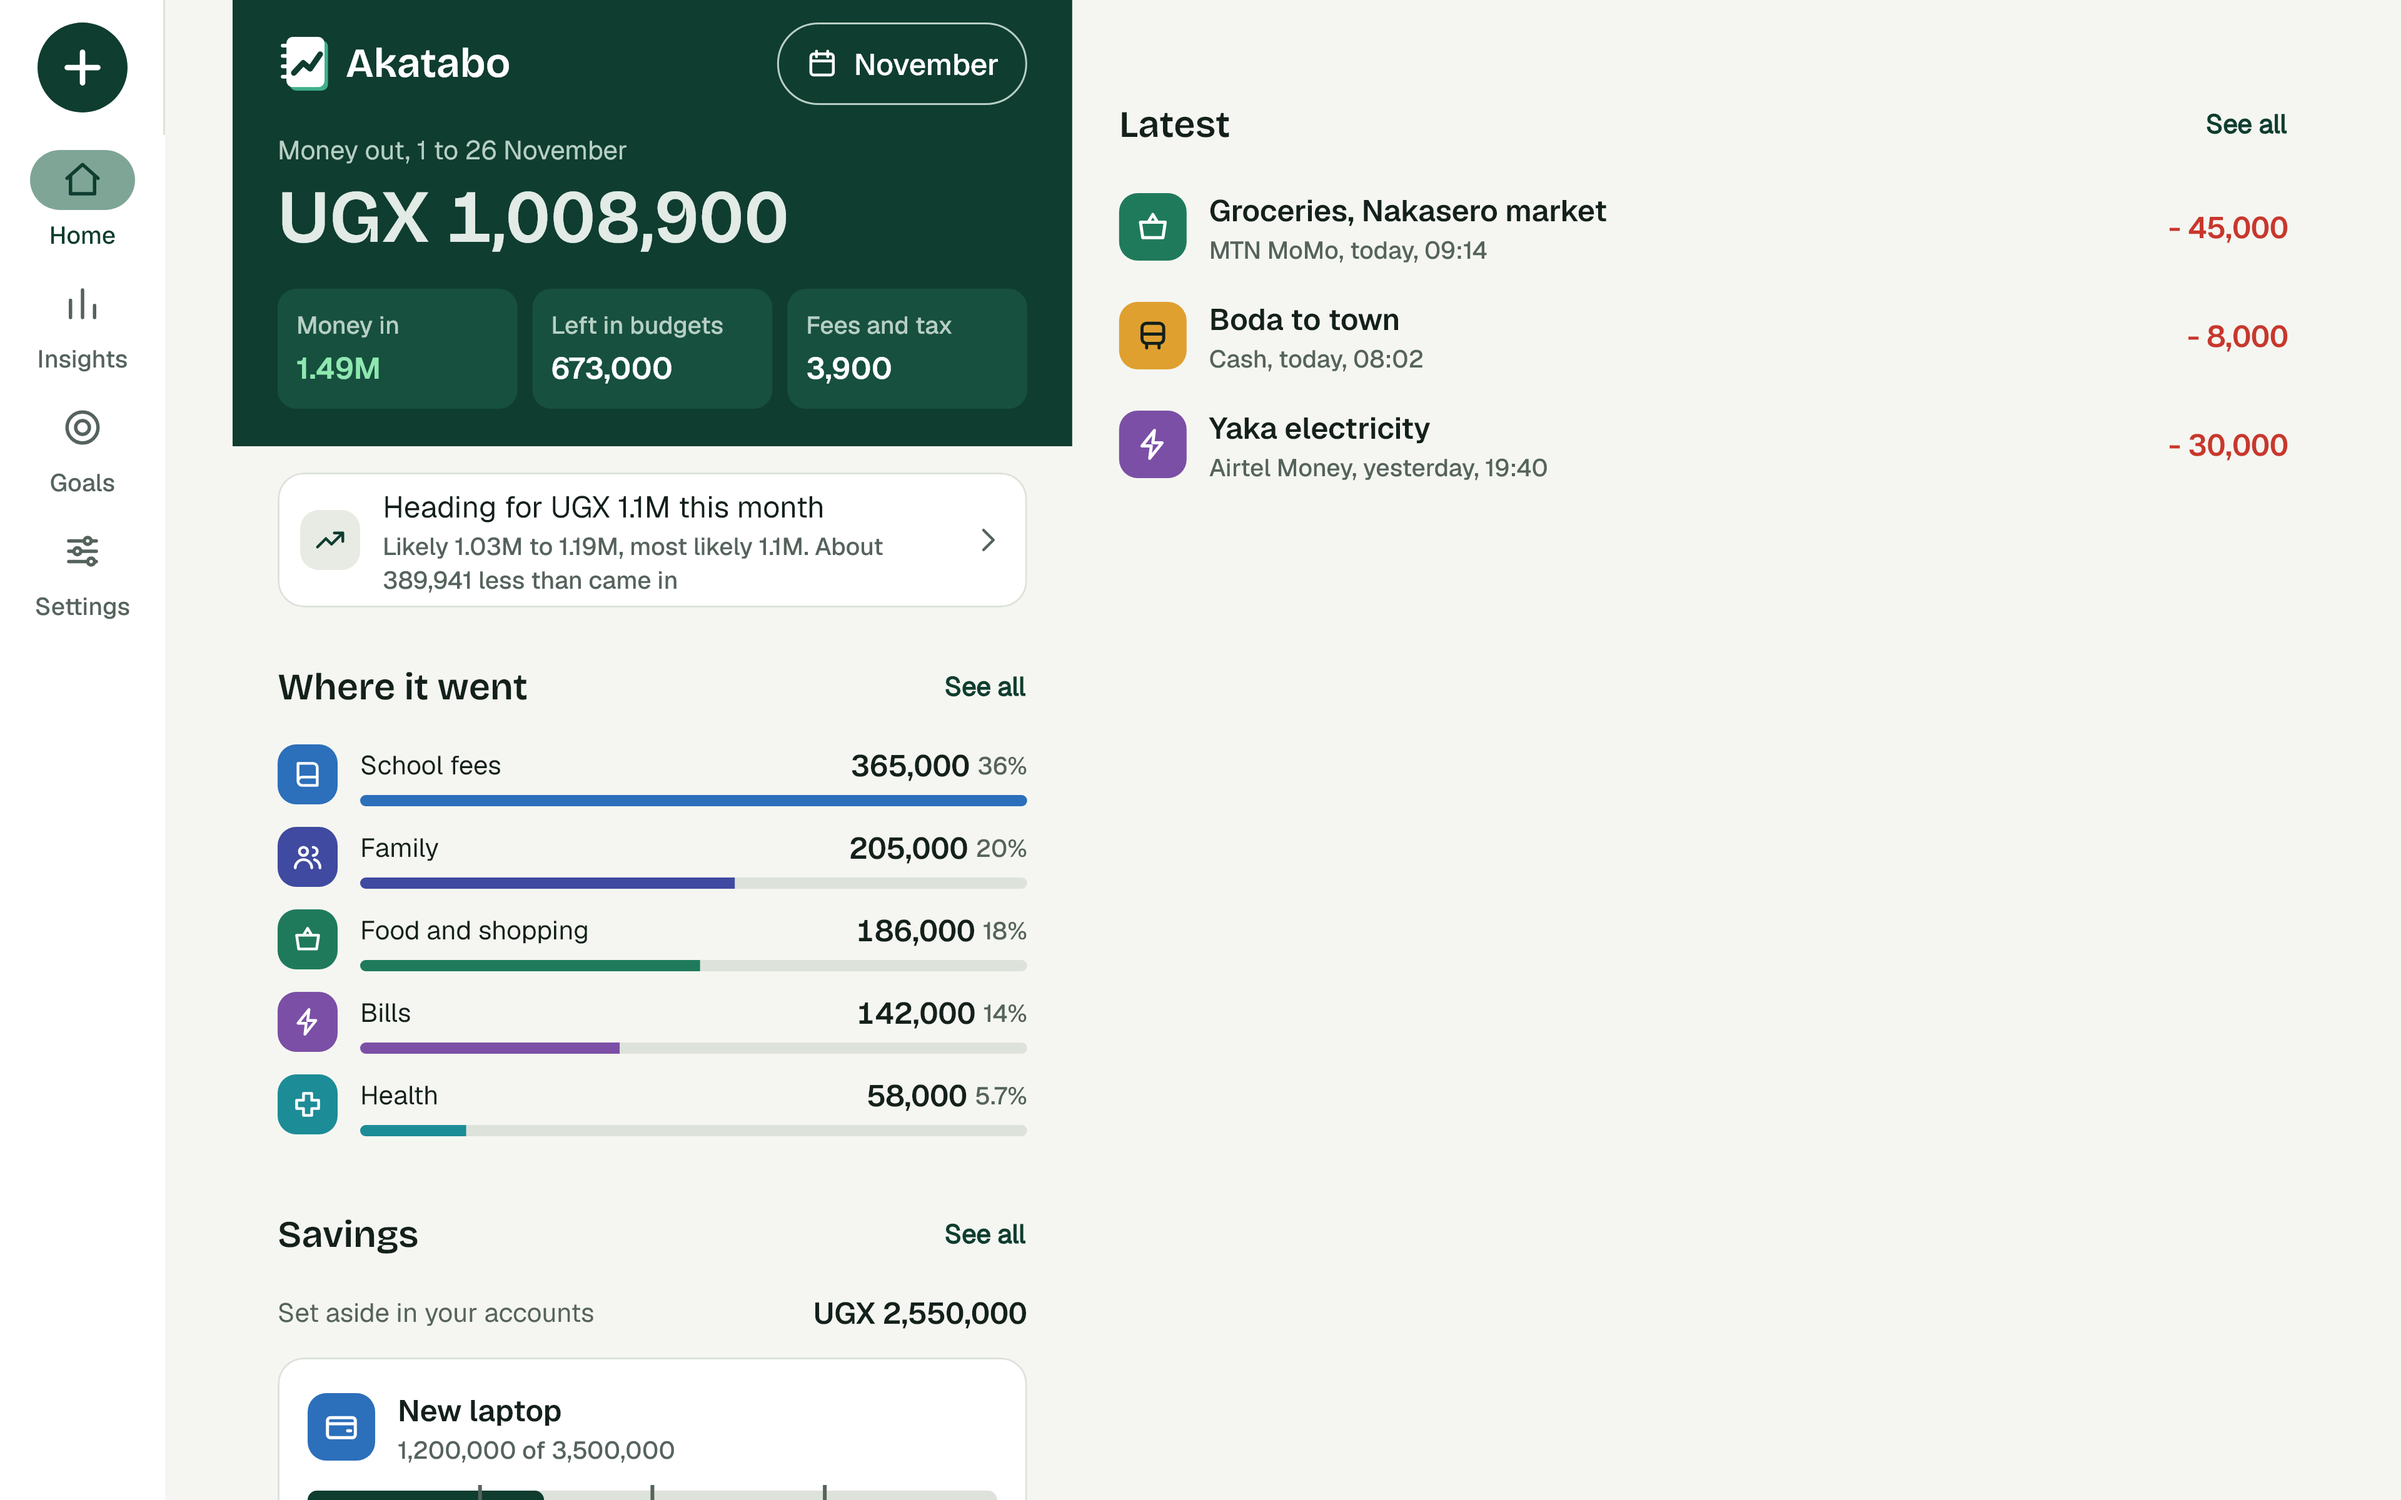
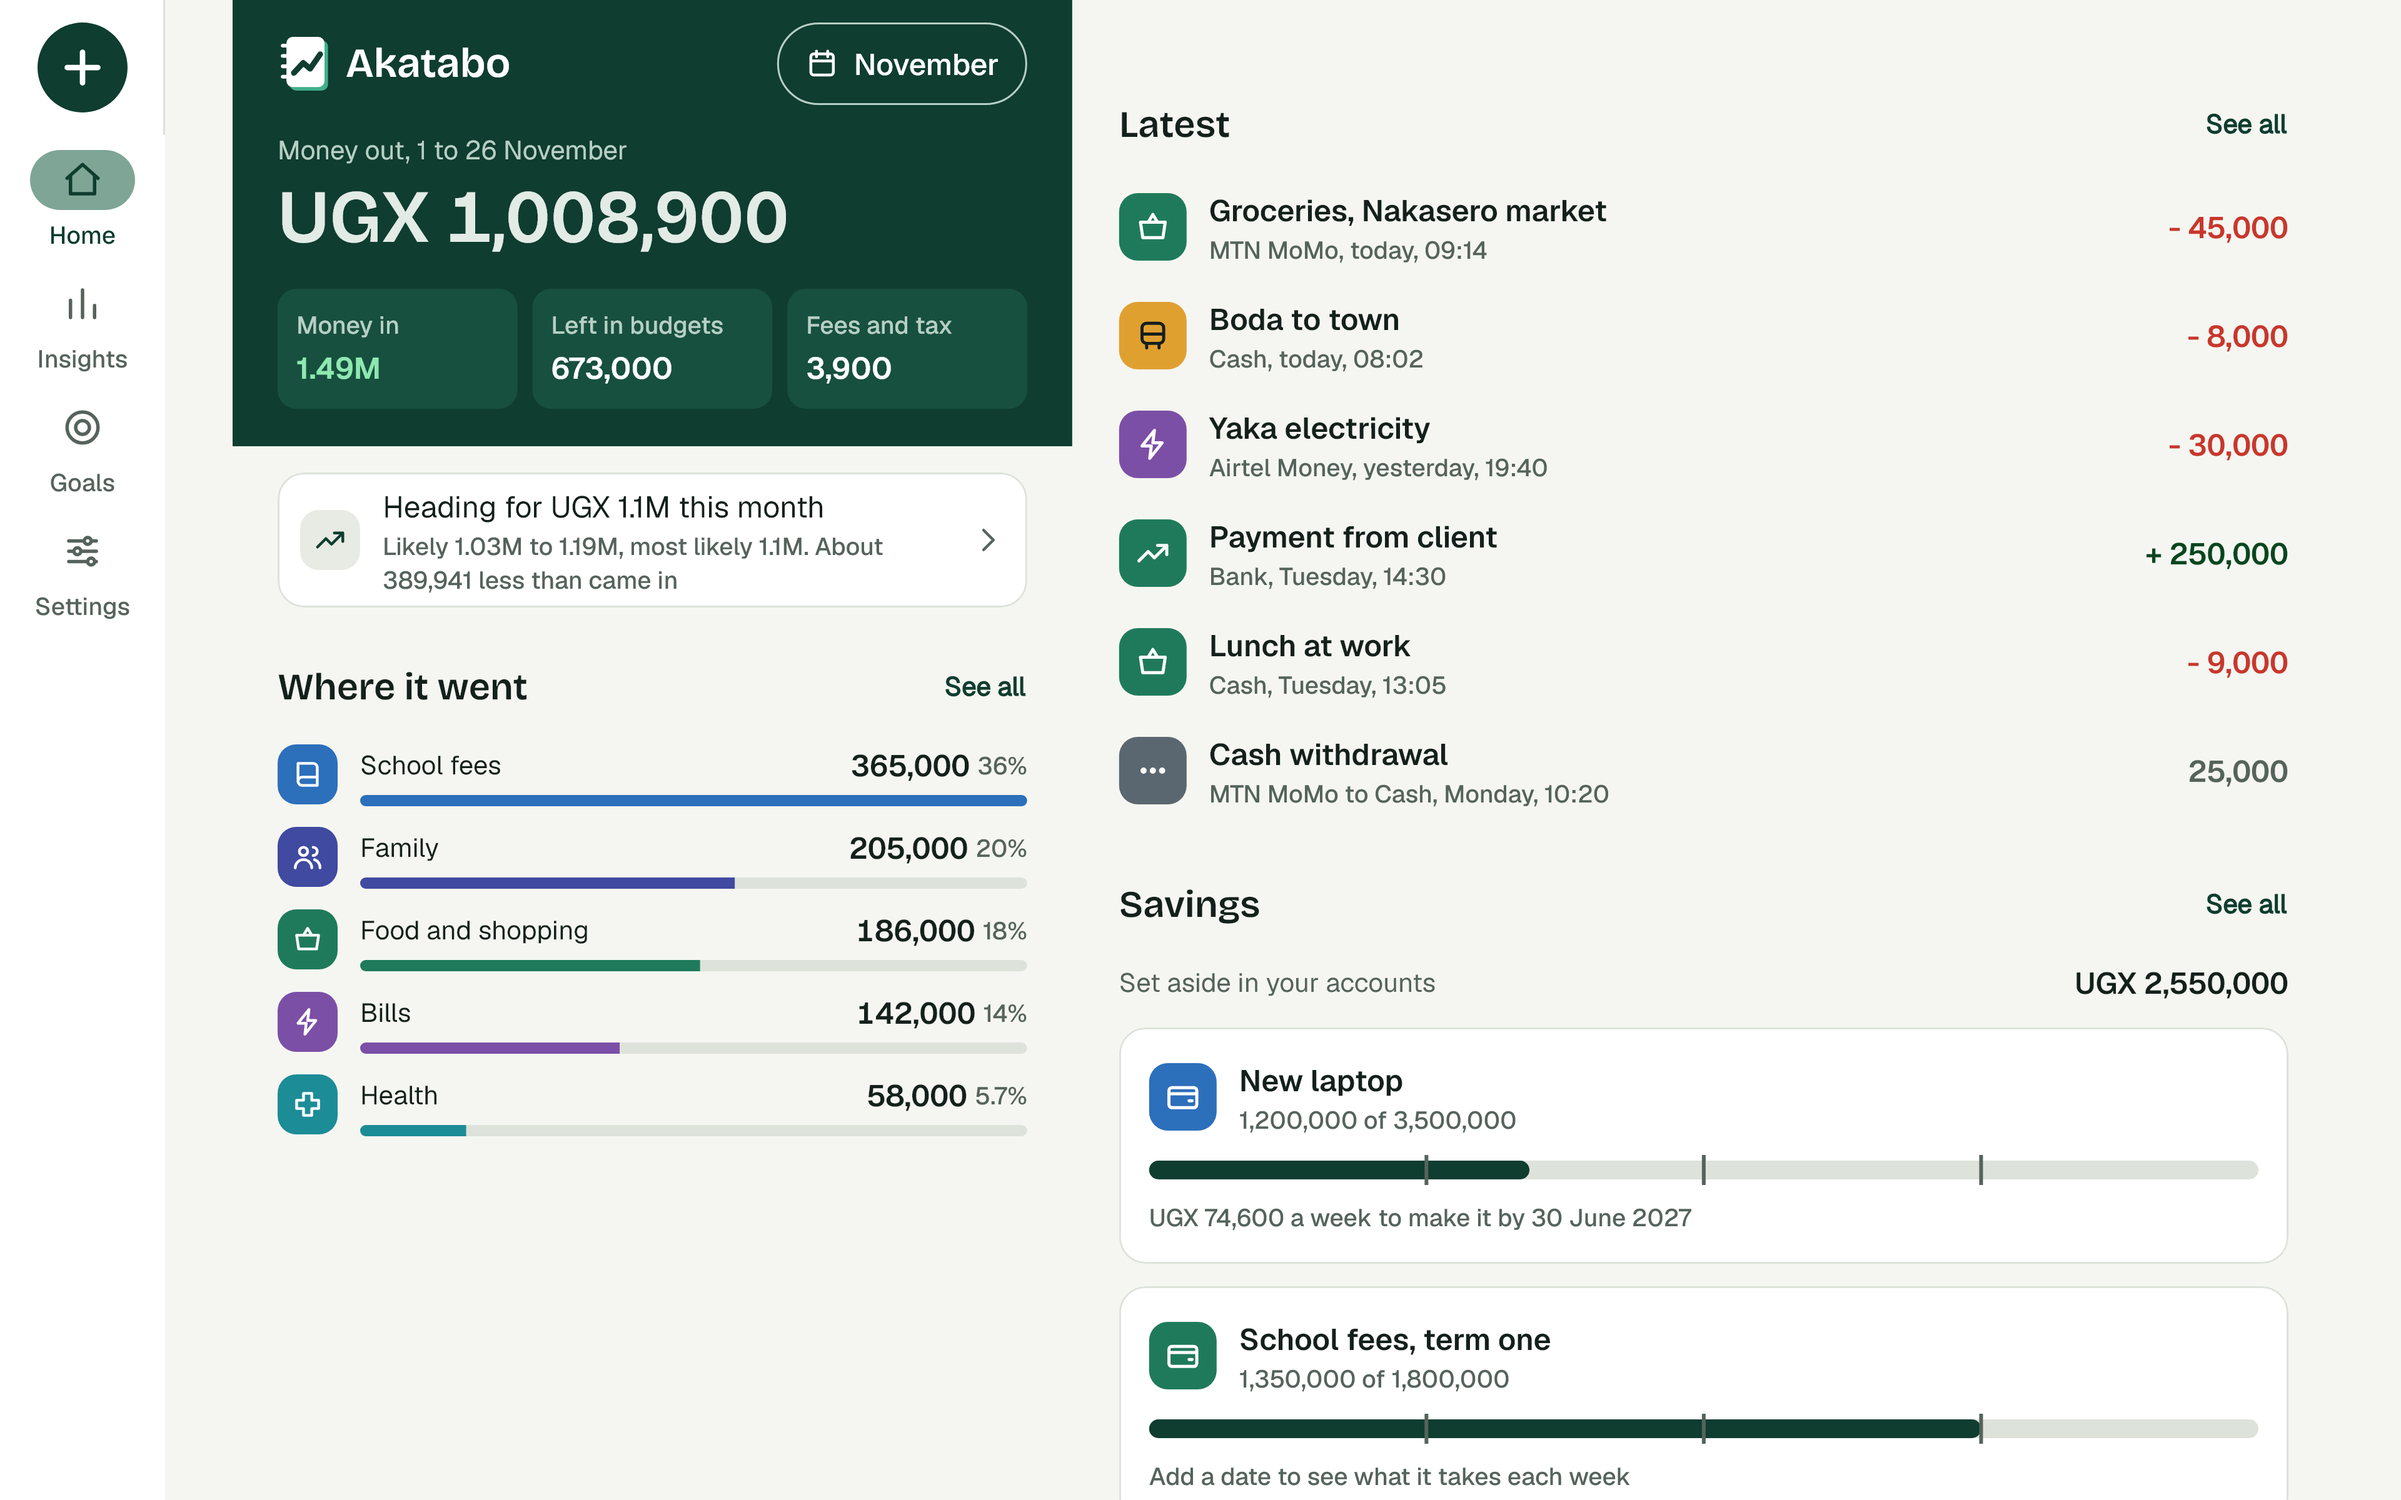
Tablet Home: Latest fills the right pane, and Savings sits under it
On a window of 840dp or wider, Latest shows six entries from a new
provider (the phone still reads three), and Savings moves from the left
pane to the right, under Latest. The left pane keeps the summary,
forecast, where it went and budgets. Phones keep their order: summary,
savings, latest, budgets.

Test: "a tablet fills the Latest pane and moves Savings beside it". It
fails when the wide pane shows the phone's rows, and when Savings stays
in the left pane. Tablet screenshot and docs redrawn; phone shots are
unchanged. Filed: a three-then-six row flash after a window goes wide.

diff --git a/app/test/features/home/home_screen_test.dart b/app/test/features/home/home_screen_test.dart
@@ -62,7 +62,12 @@ Future<void> _pumpHome(
         appNowProvider.overrideWithValue(_now),
         // The default calculator: "Month starts on" the 1st, weeks start on Sunday.
         periodCalculatorProvider.overrideWithValue(const PeriodCalculator()),
-        latestRowsProvider.overrideWith((ref) => Stream.value(latest)),
+        // The same limits the real providers put on the query: three for a phone, more for
+        // the wide window's Latest pane.
+        latestRowsProvider.overrideWith((ref) => Stream.value(latest.take(3).toList())),
+        latestWideRowsProvider.overrideWith(
+          (ref) => Stream.value(latest.take(wideLatestCount).toList()),
+        ),
         monthRowsProvider.overrideWith((ref) => Stream.value(month)),
         previousSameDaysRowsProvider.overrideWith((ref) => Stream.value(previous)),
         allCategoriesProvider.overrideWith((ref) => Stream.value(categories ?? _categories)),
@@ -227,6 +232,49 @@ void main() {
     // Stacked: the Latest title sits below the summary, in the same column.
     expect(latestPhone.dx, closeTo(wherePhone.dx, 1));
     expect(latestPhone.dy, greaterThan(wherePhone.dy));
+  });
+
+  testWidgets('a tablet fills the Latest pane and moves Savings beside it', (tester) async {
+    final rows = [
+      for (var i = 0; i < 10; i++)
+        txRow(
+          id: 'r$i',
+          amount: 1000 + i,
+          day: 20261119,
+          at: _now.subtract(Duration(minutes: i)),
+        ),
+    ];
+    final goal = Goal(
+      id: 'g1',
+      createdAt: _now,
+      updatedAt: _now,
+      name: 'School fees term 1',
+      iconKey: 'book',
+      colourToken: 'cat-teal',
+      target: 500000,
+      remindEvery: GoalRemind.off,
+      sortOrder: 0,
+    );
+    await _pumpHome(tester, latest: rows, month: rows, goals: [goal], size: const Size(1280, 800));
+    expect(tester.takeException(), isNull);
+    // The pane shows the wide count, not a phone's three and not every entry.
+    expect(find.byType(TransactionRow), findsNWidgets(wideLatestCount));
+    final latest = tester.getTopLeft(find.text('Latest'));
+    final where = tester.getTopLeft(find.text('Where it went'));
+    final savings = tester.getTopLeft(find.text('Savings'));
+    // Savings is in the right pane, under Latest, not in the summary's pane.
+    expect(savings.dx, closeTo(latest.dx, 1));
+    expect(savings.dx, greaterThan(where.dx));
+    expect(savings.dy, greaterThan(latest.dy));
+
+    // A phone still shows three rows and keeps Savings in its old place, above Latest.
+    await tester.pumpWidget(const SizedBox());
+    await _pumpHome(tester, latest: rows, month: rows, goals: [goal]);
+    expect(find.byType(TransactionRow), findsNWidgets(3));
+    expect(
+      tester.getTopLeft(find.text('Savings')).dy,
+      lessThan(tester.getTopLeft(find.text('Latest')).dy),
+    );
   });
 
   testWidgets('on a wide window the last Latest row clears the system bar', (tester) async {

diff --git a/app/lib/features/home/home_screen.dart b/app/lib/features/home/home_screen.dart
@@ -136,6 +136,8 @@ class HomeScreen extends ConsumerWidget {
           child: _WhereItWent(parts: parts, categories: categories, total: totals.moneyOut),
         ),
       ],
+    ];
+    final savingsBlock = <Widget>[
       if (savingGoal) ...[
         const SizedBox(height: AkSpace.s5),
         const Padding(
@@ -144,6 +146,9 @@ class HomeScreen extends ConsumerWidget {
         ),
       ],
     ];
+    // A wide window gives Latest a pane of its own, so it can show more than a phone's three.
+    final wide = isWide(context) && layout.latest;
+    final latestShown = wide ? (ref.watch(latestWideRowsProvider).value ?? latest) : latest;
     final latestBlock = <Widget>[
       if (layout.latest) ...[
         const SizedBox(height: AkSpace.s5),
@@ -156,7 +161,7 @@ class HomeScreen extends ConsumerWidget {
           ),
         ),
         const SizedBox(height: AkSpace.s1),
-        for (final tx in latest)
+        for (final tx in latestShown)
           Padding(
             padding: const EdgeInsets.symmetric(horizontal: AkSpace.s6),
             child: TransactionRow(
@@ -184,9 +189,10 @@ class HomeScreen extends ConsumerWidget {
     // also clear the 3-button bar or a taskbar. On a phone this inset is already 0.
     final bottomGap = SizedBox(height: AkSpace.s6 + MediaQuery.paddingOf(context).bottom);
 
-    // A wide window shows the summary and the Latest list side by side; a phone keeps one
-    // column, in the same order as before.
-    if (isWide(context) && layout.latest) {
+    // A wide window puts the summary, forecast and budgets on the left and what happened on the
+    // right: Latest, then what is set aside. A phone keeps one column, in the same order as
+    // before.
+    if (wide) {
       return Scaffold(
         backgroundColor: context.colors.ground,
         body: WidePanes(
@@ -199,6 +205,7 @@ class HomeScreen extends ConsumerWidget {
             children: [
               const SizedBox(height: AkSpace.s6),
               ...latestBlock,
+              ...savingsBlock,
               bottomGap,
             ],
           ),
@@ -209,7 +216,7 @@ class HomeScreen extends ConsumerWidget {
       backgroundColor: context.colors.ground,
       body: ListView(
         padding: EdgeInsets.zero,
-        children: [...head, ...latestBlock, ...budgetBlock, bottomGap],
+        children: [...head, ...savingsBlock, ...latestBlock, ...budgetBlock, bottomGap],
       ),
     );
   }

diff --git a/app/lib/features/home/home_providers.dart b/app/lib/features/home/home_providers.dart
@@ -34,6 +34,15 @@ final latestRowsProvider = StreamProvider<List<Transaction>>(
   (ref) => ref.watch(transactionRepositoryProvider).watchLatest(3),
 );
 
+/// How many entries Latest shows on a wide window, where it has a pane to itself.
+const wideLatestCount = 6;
+
+/// The newest [wideLatestCount] entries, for the wide window's Latest pane. Only read while
+/// Home is wide, so a phone never asks for the extra rows.
+final latestWideRowsProvider = StreamProvider<List<Transaction>>(
+  (ref) => ref.watch(transactionRepositoryProvider).watchLatest(wideLatestCount),
+);
+
 /// Every category, including the reserved fees one, to name the rows of a split.
 final allCategoriesProvider = StreamProvider<List<Category>>(
   (ref) => ref.watch(categoryRepositoryProvider).watchAll(),

diff --git a/README.md b/README.md
@@ -46,7 +46,7 @@ An iOS project is in place but has not been built, because the work so far has b
 - **Reports** as PDF, CSV and Excel files, and **backups** as a single `.akatabo` file you can protect with a password.
 - **App lock** with a PIN, and fingerprint or face unlock where the phone has it. Amounts can be hidden on screen and in the app switcher.
 - **Reminders** for the daily entry, budgets, savings goals and regular payments.
-- **Phones, tablets and foldables.** On a wide screen the tabs move to a side rail and Home shows the latest entries beside the summary. On a foldable, Home splits its two panes at the fold, and the tab screens keep clear of a half-open fold.
+- **Phones, tablets and foldables.** On a wide screen the tabs move to a side rail and Home shows the latest entries and savings beside the summary. On a foldable, Home splits its two panes at the fold, and the tab screens keep clear of a half-open fold.
 - **Made to be read.** Light and dark themes, a text size setting, red and green for money out and in with an option for orange and blue, and screen reader support.
 
 Four small models run on the phone to suggest a category, forecast the month, flag unusual payments and spot regular ones. They learn from your own entries and send nothing anywhere.
@@ -68,7 +68,7 @@ Four small models run on the phone to suggest a category, forecast the month, fl
 
 On a tablet or an unfolded foldable, the same app uses the extra width:
 
-<img src="docs/screenshots/tablet-home-light.png" alt="Home on a tablet: a navigation rail on the left, the summary in the middle and the latest entries on the right" width="100%">
+<img src="docs/screenshots/tablet-home-light.png" alt="Home on a tablet: a navigation rail on the left, the summary, forecast and where it went in the middle, and the latest entries and savings on the right" width="100%">
 
 <img src="docs/screenshots/tablet-insights-dark.png" alt="Insights on a tablet in dark mode, with the navigation rail on the left" width="100%">
 

diff --git a/CHANGELOG.md b/CHANGELOG.md
@@ -21,7 +21,7 @@ The first public release. The app is built for Android; it is not on a store yet
 - **Set a budget** has a "Carry over what is left" row with its own switch.
 - **A new logo and icon set,** including the themed icon, the splash screen and the notification icon.
 - **Money colours.** Red for money out and green for money in, with an option in Appearance to switch back to orange and blue.
-- **Tablets and foldables.** At 840dp wide or more, the tabs move to a navigation rail with Add at the top, the content is capped and centred, and Home shows the latest entries beside the summary. On a foldable, the fold sets where Home's two panes split, and on a phone half-open like a laptop the tab screens stay on one half. Phones held upright are unchanged.
+- **Tablets and foldables.** At 840dp wide or more, the tabs move to a navigation rail with Add at the top, the content is capped and centred, and Home shows the latest entries, six at a time, and savings beside the summary. On a foldable, the fold sets where Home's two panes split, and on a phone half-open like a laptop the tab screens stay on one half. Phones held upright are unchanged.
 - **Screenshots** in the README and the store listings, drawn from the real app with made-up entries by a test, so they can be drawn again after a change.
 
 ### Changed

diff --git a/docs/BUGS.md b/docs/BUGS.md
@@ -4,6 +4,15 @@ Bugs scoring under 5 (frequency x severity, each 1 to 10) are filed here and lef
 
 ## Open
 
+### [bug-review] Wide Home shows three Latest rows for a moment before six
+
+- **Where:** `app/lib/features/home/home_screen.dart` (`latestShown`)
+- **What happens:** the first time a window goes wide in a session, `latestWideRowsProvider` has no value yet, so the pane shows the phone's three rows and then grows to six when the query answers. Savings below it moves down once.
+- **How to trigger:** open Home in portrait with at least four entries and a savings goal, then turn the phone to landscape (840dp or wider) or unfold a foldable.
+- **Score:** frequency 4 x severity 1 = 4
+- **Suggested fix:** accept it (it lasts about a frame), or keep the wide provider alive from the start so it is already loaded.
+- **Found:** 26 November 2026, bug review of the tablet Home pane
+
 ### [bug-review] Screenshot test leaves old numbered store images behind
 
 - **Where:** `app/test/screenshots/readme_screenshots_test.dart` (`_storeOrder`, `_Shot.save`)

diff --git a/docs/README.md b/docs/README.md
@@ -23,5 +23,5 @@ The project's main notes are at the repository root: [`CHANGELOG.md`](../CHANGEL
 
 | Tablet (1280 by 800dp) | |
 | --- | --- |
-| `tablet-home-light.png` | Home with the navigation rail, and Latest beside the summary |
+| `tablet-home-light.png` | Home with the navigation rail, and Latest and Savings beside the summary |
 | `tablet-insights-dark.png` | Insights with the navigation rail |
